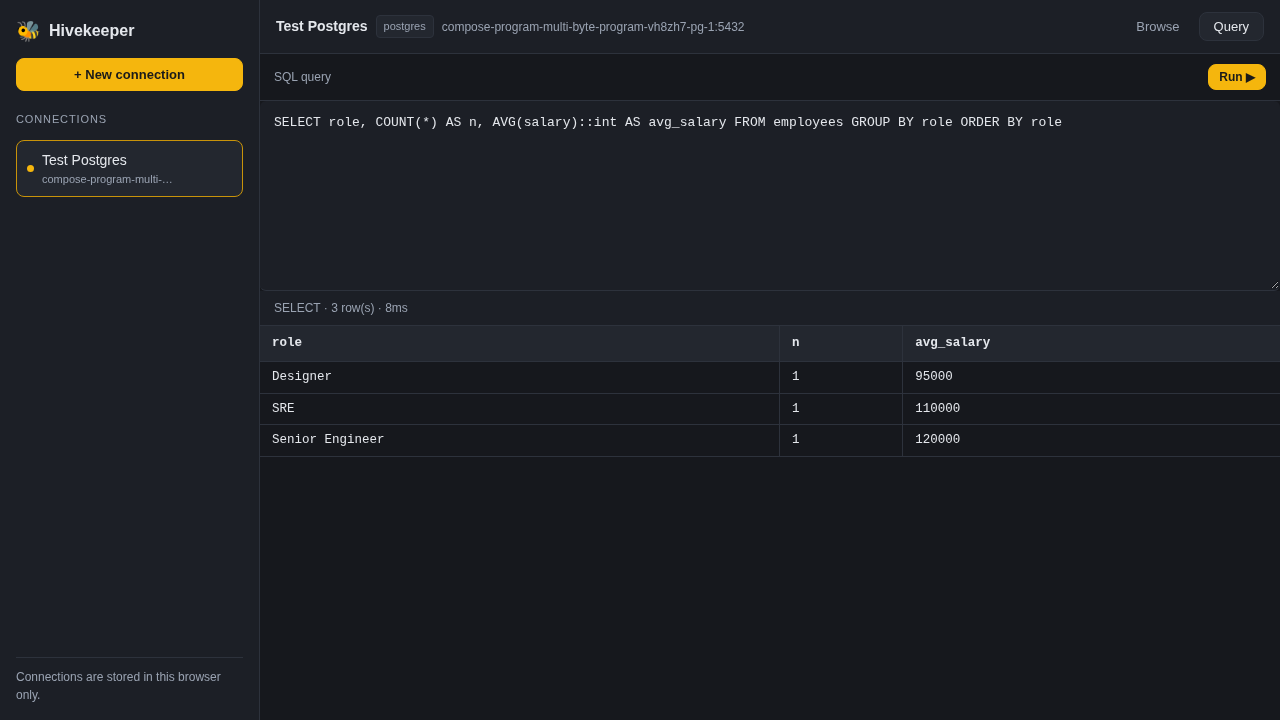
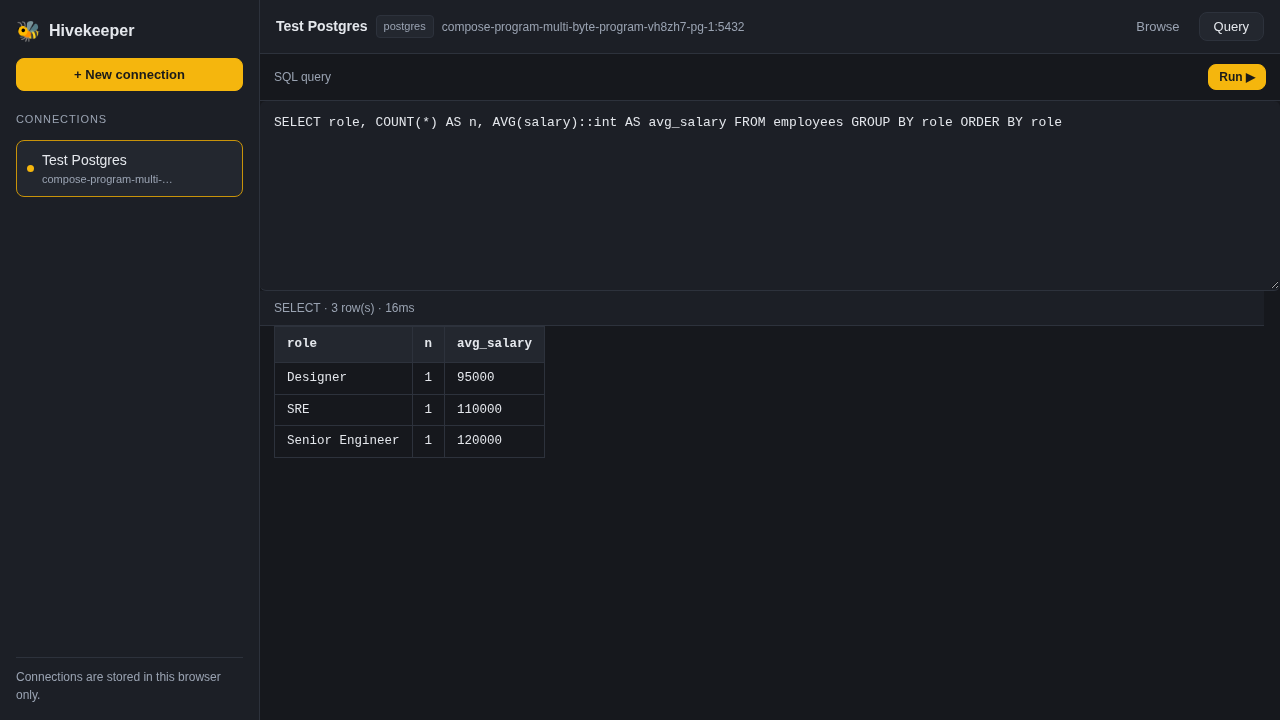
Move grid gutter from scroll wrapper to table margin
Padding on the scroll container shortened the toolbar and status strips
relative to the header, leaving inconsistent right edges between stacked
sections. The gutter now rides on the table's own margin instead.

diff --git a/public/app.css b/public/app.css
@@ -151,9 +151,10 @@ body {
   padding: 10px 14px; border-bottom: 1px solid var(--border);
 }
 
-/* Grid wrapper carries the gutter so the table edge is visible rather than
-   flush against the viewport. */
-.grid-wrap { flex: 1; overflow: auto; padding: 0 16px 16px 0; }
+/* Gutter lives on the scroll wrapper's inner content, not the wrapper itself,
+   so sibling strips (toolbar, status) keep a consistent right edge. */
+.grid-wrap { flex: 1; overflow: auto; }
+.grid-wrap > table.grid { margin: 0 16px 16px 14px; }
 
 /* width:max-content sizes columns to their content instead of stretching one
    column to fill the pane, and lets the table terminate with a visible edge. */
@@ -189,8 +190,8 @@ td.null { color: var(--fg-dim); font-style: italic; }
   width: 100%; display: block;
 }
 
-.query-results { flex: 1; overflow: auto; padding: 0 16px 16px 0; }
-.query-results table.grid { margin-left: 14px; }
+.query-results { flex: 1; overflow: auto; }
+.query-results table.grid { margin: 0 16px 16px 14px; }
 
 .result-meta {
   padding: 8px 14px; border-bottom: 1px solid var(--border);
